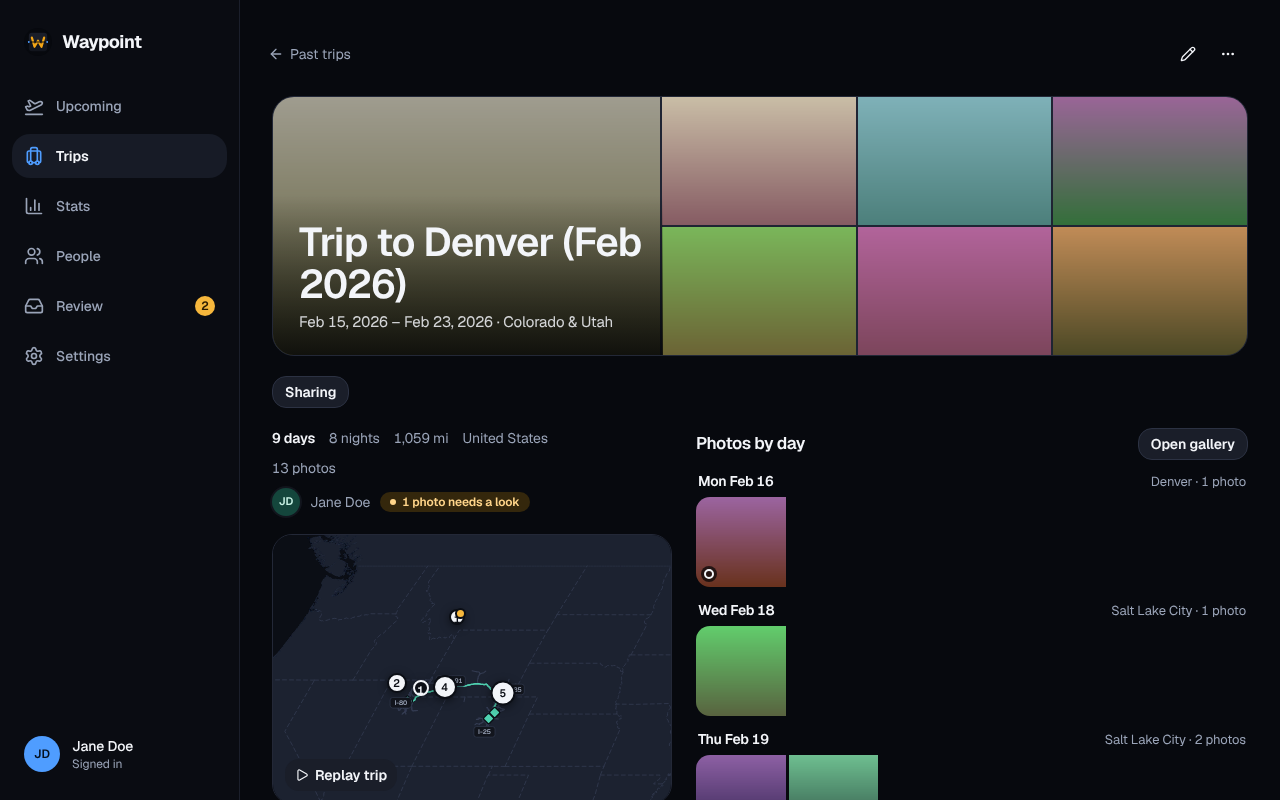
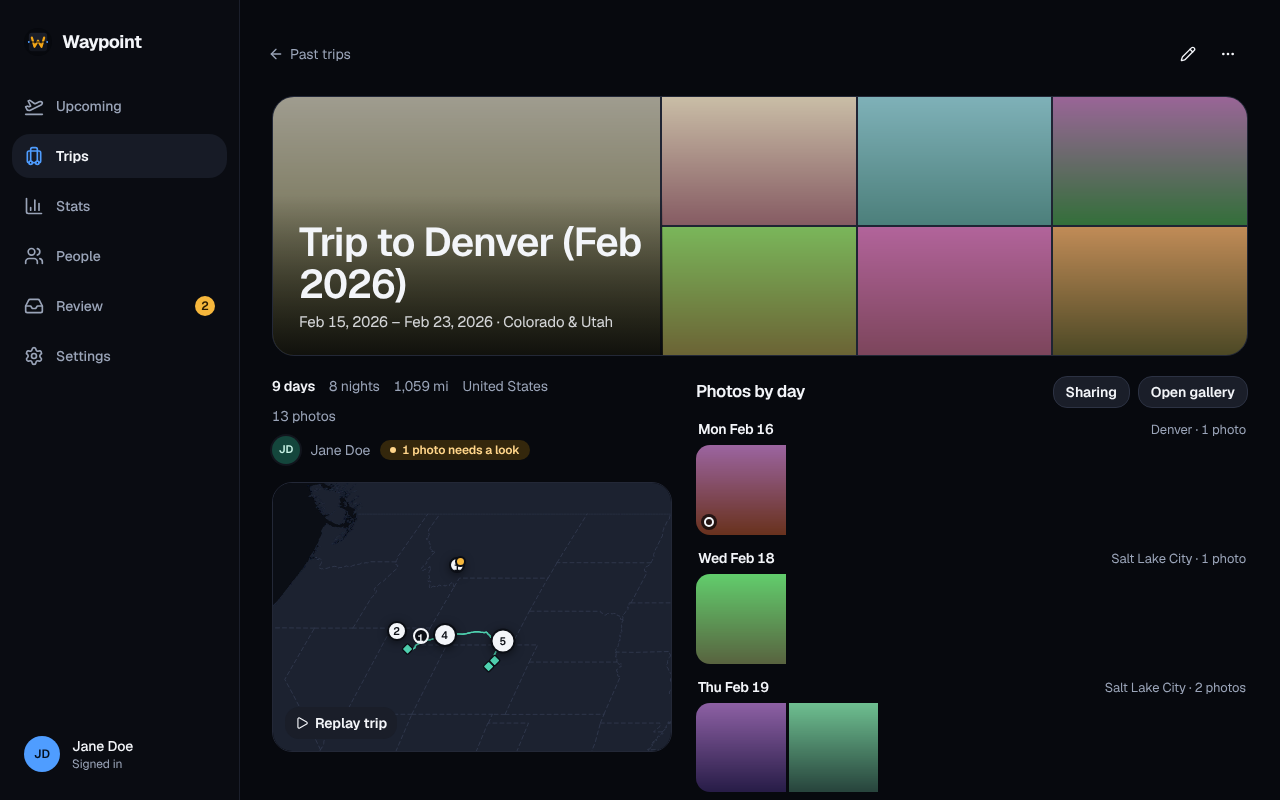
feat: the Sharing button beside Open gallery on the desktop completed trip page (#806)

diff --git a/frontend/src/lib/components/TripPhotos.svelte b/frontend/src/lib/components/TripPhotos.svelte
@@ -1,5 +1,5 @@
 <script lang="ts">
-  import { tick, untrack } from "svelte";
+  import { tick, untrack, type Snippet } from "svelte";
   import { app } from "$lib/app.svelte";
   import type { Person, PhotoSource, Trip, TripPhoto, TripPhotos } from "$lib/api-types";
   import { apiCall } from "$lib/contract";
@@ -19,10 +19,10 @@
   const NONE: ReadonlySet<number> = new Set();
   const GLYPHS = ["M6 22 C 14 18 20 12 26 14 S 38 16 42 8", "M8 14 C 14 8 22 8 26 14 S 36 22 42 16", "M6 10 C 14 14 20 22 28 20 S 38 12 42 20", "M6 20 C 14 20 18 12 26 12 S 38 8 42 6"];
 
-  let { trip, people, now, onloaded, onchanged, timeline = false, wide = false, leftOut = NONE, onlook, onstatus, onsharing, sharingOpen = $bindable(false) }: {
+  let { trip, people, now, onloaded, onchanged, timeline = false, wide = false, leftOut = NONE, onlook, onstatus, onsharing, sharingOpen = $bindable(false), headerEnd = null, belowHeader = null }: {
     trip: Trip; people: Person[]; now: number; onloaded?: (found: TripPhotos | null) => void; onchanged?: () => void;
     timeline?: boolean; wide?: boolean; leftOut?: ReadonlySet<number>; onlook?: (count: number) => void; onstatus?: (state: "loading" | "ready" | "error") => void;
-    onsharing?: (acting: PersonSharing[], settled: boolean) => void; sharingOpen?: boolean;
+    onsharing?: (acting: PersonSharing[], settled: boolean) => void; sharingOpen?: boolean; headerEnd?: Snippet | null; belowHeader?: Snippet | null;
   } = $props();
 
   type Loaded = { state: "loading" } | { state: "ready"; found: TripPhotos } | { state: "error" };
@@ -431,10 +431,13 @@
 
 {#if signedIn && shows}
   <section class={`flex flex-col gap-3 ${timeline ? "" : "mb-6"}`} aria-labelledby="trip-photos-title" data-testid="trip-photos">
-    {#if timeline && wide && total}
-      <div class="flex items-center justify-between gap-3">
-        <h2 id="trip-photos-title" class="text-[17px] leading-snug font-semibold tracking-tight outline-none" tabindex="-1" bind:this={heading}>Photos by day</h2>
-        <Button variant="outline" size="sm" aria-expanded={expanded} aria-controls="trip-photos-gallery" onclick={() => (expanded ? close() : void open(false))}>{expanded ? "Close gallery" : "Open gallery"}</Button>
+    {#if timeline && wide && (total || headerEnd)}
+      <div class={`flex items-center gap-3 ${total ? "justify-between" : "justify-start"}`}>
+        <h2 id="trip-photos-title" class={total ? "text-[17px] leading-snug font-semibold tracking-tight outline-none" : "sr-only"} tabindex="-1" bind:this={heading}>Photos by day</h2>
+        <div class="flex items-center gap-2">
+          {#if headerEnd}{@render headerEnd()}{/if}
+          {#if total}<Button variant="outline" size="sm" aria-expanded={expanded} aria-controls="trip-photos-gallery" onclick={() => (expanded ? close() : void open(false))}>{expanded ? "Close gallery" : "Open gallery"}</Button>{/if}
+        </div>
       </div>
     {:else if timeline}
       <h2 id="trip-photos-title" class="sr-only" tabindex="-1" bind:this={heading}>Photos by day</h2>
@@ -454,6 +457,7 @@
       {/if}
     </div>
     {/if}
+    {#if timeline && wide && belowHeader}{@render belowHeader()}{/if}
     {#if selecting}
       <div class="sticky top-[calc(env(safe-area-inset-top)+4rem)] z-[2] flex flex-wrap items-center justify-between gap-x-3 gap-y-2 bg-background py-2 lg:top-0" data-testid="photo-selection">
         <p class="text-heading" role="status">{selected.size} selected</p>

diff --git a/frontend/src/lib/components/PastTrip.svelte.test.ts b/frontend/src/lib/components/PastTrip.svelte.test.ts
@@ -423,8 +423,7 @@ describe("PastTrip Sharing", () => {
   const sharingButton = () => screen.findByRole("button", { name: "Sharing" });
   const before = (a: Element, b: Element) => !!(a.compareDocumentPosition(b) & Node.DOCUMENT_POSITION_FOLLOWING);
 
-  it("sits alone in the row under a photo hero when View photos isn't drawn, with the card only in the panel", async () => {
-    viewport.phone = false;
+  it("sits alone in the row under a photo hero on a phone when View photos isn't drawn, with the card only in the panel", async () => {
     photos = many(6);
     best = [1, 2, 3];
     sharingReply = async () => sharing();
@@ -437,8 +436,52 @@ describe("PastTrip Sharing", () => {
     await userEvent.click(button);
     const panel = await screen.findByRole("dialog", { name: "Photo sharing for this trip" });
     expect(within(panel).getByRole("region", { name: "Your photos on this trip" })).toBeTruthy();
-    expect(panel.className).toContain("left-[-6px]");
     expect(screen.queryByRole("button", { name: "Select your photos to remove" })).toBeNull();
+  });
+
+  it("sits beside Open gallery in the Photos by day header on desktop, with the popover opening leftward to stay on screen", async () => {
+    viewport.phone = false;
+    photos = many(6);
+    best = [1, 2, 3];
+    sharingReply = async () => sharing();
+    show();
+    const button = await sharingButton();
+    const open = screen.getByRole("button", { name: "Open gallery" });
+    const heading = screen.getByRole("heading", { level: 2, name: "Photos by day" });
+    expect(heading.parentElement?.contains(button)).toBe(true);
+    expect(before(button, open)).toBe(true);
+    expect(before(screen.getByTestId("trip-hero"), button)).toBe(true);
+    expect(screen.queryByRole("button", { name: "View photos" })).toBeNull();
+    await userEvent.click(button);
+    const panel = await screen.findByRole("dialog", { name: "Photo sharing for this trip" });
+    expect(panel.className).toContain("right-[-6px]");
+  });
+
+  it("puts the reminder directly under the Photos by day header on desktop", async () => {
+    viewport.phone = false;
+    photos = many(6);
+    best = [1, 2, 3];
+    sharingReply = async () => sharing({ state: "declined", scope: null });
+    show();
+    const reminder = await screen.findByTestId("photo-reminder");
+    const heading = screen.getByRole("heading", { level: 2, name: "Photos by day" });
+    expect(heading.parentElement?.nextElementSibling).toBe(reminder);
+    expect(before(reminder, days()[0])).toBe(true);
+    expect(screen.queryByRole("button", { name: "Sharing" })).toBeNull();
+  });
+
+  it("holds a blank slot in the header on desktop while the sharing state loads", async () => {
+    viewport.phone = false;
+    photos = many(6);
+    best = [1, 2, 3];
+    let release: (value: PhotoSharing) => void = () => {};
+    sharingReply = () => new Promise((resolve) => { release = resolve; });
+    show();
+    const slot = await screen.findByTestId("sharing-slot");
+    expect(screen.getByRole("heading", { level: 2, name: "Photos by day" }).parentElement?.contains(slot)).toBe(true);
+    release(sharing());
+    await sharingButton();
+    expect(screen.queryByTestId("sharing-slot")).toBeNull();
   });
 
   it("sits beside View photos when the hero takes every photo", async () => {

diff --git a/frontend/src/lib/components/PastTrip.svelte b/frontend/src/lib/components/PastTrip.svelte
@@ -195,23 +195,31 @@
 </div>
 
 {#snippet controls()}
-  {#if controlRow}
+  {#if !wide && controlRow}
     <div class="flex flex-wrap items-center gap-2">
       {#if viewDrawn}<Button variant="outline" size="sm" onclick={() => gallery?.viewFirst()}>View photos</Button>{/if}
-      {#if hasControl}
-        <TripPhotoSharingMenu {acting} tripName={trip.name} align="start" bind:open={sharingOpen} fallback={() => gallery?.headingElement()} />
-      {:else if holdSlot}
-        <span class="inline-block h-8 w-[84px] phone:h-11" aria-hidden="true" data-testid="sharing-slot"></span>
-      {/if}
+      {@render sharingButton()}
     </div>
   {/if}
+  {#if !wide}{@render reminders()}{/if}
+{/snippet}
+
+{#snippet sharingButton()}
+  {#if hasControl}
+    <TripPhotoSharingMenu {acting} tripName={trip.name} align={wide ? "end" : "start"} bind:open={sharingOpen} fallback={() => gallery?.headingElement()} />
+  {:else if holdSlot}
+    <span class="inline-block h-8 w-[84px] phone:h-11" aria-hidden="true" data-testid="sharing-slot"></span>
+  {/if}
+{/snippet}
+
+{#snippet reminders()}
   {#each acting as a (a.personId)}
     <TripPhotoSharing sharing={a} tripName={trip.name} part="reminder" />
   {/each}
 {/snippet}
 
 {#snippet photos()}
-  <TripPhotos bind:this={gallery} bind:sharingOpen onsharing={(next, done) => { acting = next; settled = done; }} onstatus={(next) => (status = next)} timeline {wide} {leftOut} onlook={(n) => (looks = n)} onloaded={(next) => (found = next)} onchanged={() => photoChanges++} {trip} {people} {now} />
+  <TripPhotos bind:this={gallery} bind:sharingOpen onsharing={(next, done) => { acting = next; settled = done; }} headerEnd={wide && (hasControl || holdSlot) ? sharingButton : null} belowHeader={wide ? reminders : null} onstatus={(next) => (status = next)} timeline {wide} {leftOut} onlook={(n) => (looks = n)} onloaded={(next) => (found = next)} onchanged={() => photoChanges++} {trip} {people} {now} />
 {/snippet}
 
 {#snippet total()}

diff --git a/docs/PHOTOS.md b/docs/PHOTOS.md
@@ -181,7 +181,7 @@ A person with no sign-in is never prompted; their steward shares for them in Set
 
 **The standing setting.** While `share_all` is on, a trip the person joins (`trippeople` gains them) gets a grant at `default_scope` in the same transaction, and a sync starts, without asking; with it off, they start with no grant and are asked when they first open the trip (decision 14). Turning it on is a widening, so it asks once ("Share your photos on all your trips? This includes N trips you haven't shared or stopped sharing.", **Cancel** / **Share on all**), then grants every current trip of the person that is eligible (they are on it, the setter can see it) and has no active grant at `default_scope`, clearing revoked rows too, so an active Only me or Trip grant keeps its scope, so while it is on every such trip with their photos is shared, as the Settings copy says. A trip whose sharing they stop while the setting is on stays stopped: the setting writes only trips with no row and trips joined later. Turning it off grants and revokes nothing. Changing the default scope changes no trip already shared. It only ever grants trips that whoever set it (`photo_sharing_prefs.set_by`) can see (Terms), so a steward's setting never shares a child's photos on a trip the steward can't see. Because the setter can come to see a trip in other ways than the person joining it (the steward books it, or a confirmation for it arrives in their mailbox), `photogrants.reconcile(conn, trip)` runs in the transaction of every change that can change who sees a trip or who is on it (a booking added, moved or removed, a booker changed, a confirmation attached, a merge), and works both ways, in that transaction: it grants each person on the trip whose setting is on and whose setter can now see it, when they have no row there or only a revoked row older than `share_all_since` (a decline from before the setting, which turning it on would have re-shared); and it deletes each active grant on the trip whose `granted_by` can no longer see it (a steward who lost sight of the trip can't reach its controls, so the sharing they made there ends, its rows re-placed). `sync_all` runs it for every trip too, as a backstop.
 
-**Your photos on this trip** (design j, moved behind a button by [#744](https://github.com/AnthonyPluth/Waypoint/issues/744), `docs/design/photos/trip-photo-sharing.html`) is a section of the **Sharing** panel, shown only to someone whose library is shared on the trip: the count, a scope chip, the radio group **Who can see your photos on this trip**, **Stop sharing on this trip**, and the disclosure **Removed from this trip (N)**. The **Sharing** button sits first in the Photos header (`Sharing`, `Select`, `See all`) and shows only while one of the people the viewer acts for has such a section: the first-visit prompt and the reminder row stay inline with no button, and a traveller who acts for no one sees no sharing control. The panel, titled **Photo sharing for this trip**, is a non-modal popover under the button on a wide screen (Escape, a click outside it or Tab leaving it closes it) and the app's bottom sheet on a phone; the viewer's own section comes first and the sections of the people they manage start closed (the first section is always open). The three confirmations open on top of it. A past trip's page (`PastTrip.svelte`, [#789](https://github.com/AnthonyPluth/Waypoint/issues/789), `docs/design/photos/past-trip-sharing.html`) has the same button, left-aligned in the row under the hero (beside `View photos` when that is drawn, alone otherwise, and alone on its own row under the map when the hero is the map), with the popover opening left-aligned under it; the row's space is held while the sharing state loads and collapses for someone with no control, the reminder after Not now sits directly under the row, and the first-visit prompt stays above the days. Nothing about who sees what changes.
+**Your photos on this trip** (design j, moved behind a button by [#744](https://github.com/AnthonyPluth/Waypoint/issues/744), `docs/design/photos/trip-photo-sharing.html`) is a section of the **Sharing** panel, shown only to someone whose library is shared on the trip: the count, a scope chip, the radio group **Who can see your photos on this trip**, **Stop sharing on this trip**, and the disclosure **Removed from this trip (N)**. The **Sharing** button sits first in the Photos header (`Sharing`, `Select`, `See all`) and shows only while one of the people the viewer acts for has such a section: the first-visit prompt and the reminder row stay inline with no button, and a traveller who acts for no one sees no sharing control. The panel, titled **Photo sharing for this trip**, is a non-modal popover under the button on a wide screen (Escape, a click outside it or Tab leaving it closes it) and the app's bottom sheet on a phone; the viewer's own section comes first and the sections of the people they manage start closed (the first section is always open). The three confirmations open on top of it. A past trip's page (`PastTrip.svelte`, [#789](https://github.com/AnthonyPluth/Waypoint/issues/789), `docs/design/photos/past-trip-sharing.html`) has the same button, left-aligned in the row under the hero on a phone (beside `View photos` when that is drawn, alone otherwise, and alone on its own row under the map when the hero is the map) and, on the two-column desktop page, beside `Open gallery` in the `Photos by day` header (owner decision of 2026-11-17 after [#794](https://github.com/AnthonyPluth/Waypoint/pull/794)), with the popover opening left-aligned under it on a phone-width row and right-aligned (opening leftward, so it stays on screen) from the desktop header; the row's space is held while the sharing state loads and collapses for someone with no control, the reminder after Not now sits directly under the row, and the first-visit prompt stays above the days. Nothing about who sees what changes.
 
 **Scope.** Switching between Only me and Everyone updates `scope`, `changed` and `granted_by`; no photo row moves or is deleted, because every read applies the predicate below at request time. Narrowing to **Only me** saves at once, without asking, and is a removal that takes effect on the next request; a toast "Now only you see your photos on this trip." offers **Undo**, which is a widening: it sends the trip's window and the `changed` value of the grant it narrowed (and is refused with 409 unless the active grant is still that exact Only me grant, so a stale toast can't undo a newer state). The Undo toast of a removal likewise sends the exclusion's `created` value with its `DELETE …/photo-exclusions/{photo_id}` and is refused with 409 unless the current exclusion is still that exact one, so it can't undo a newer removal; **Put back** in the removed list targets the current exclusion), and if the window has changed since (the trip grew or shrank) the server refuses it (409) and the toast gives way to "The trip changed. Review who sees your photos under Your photos on this trip.", so an Undo can never expose photos the person did not confirm. Widening to everyone asks once ("Show your 171 photos to everyone on this trip?", **Cancel** / **Show them**).
 

diff --git a/docs/src/content/docs/start/photos.md b/docs/src/content/docs/start/photos.md
@@ -60,7 +60,7 @@ The first time you open a trip whose dates your library has photos from, the **P
 - **Share on all my trips** shares this trip and every trip you are on now, and turns on the standing setting (below) with the choice made here, so trips you join later are shared the same way without asking. With **Everyone on this trip** chosen it first asks “Show your 319 photos to everyone on 6 trips?”, with the same count-bound confirmation as Settings. If the standing setting is already on, the button only shares this trip, at the choice made here, exactly as **Share on this trip** does, and leaves the setting and its default for later trips as they are (change those in Settings). If Waypoint finds this trip still not shared after turning the setting on, it says so and keeps the card open.
 - **Not now** folds the card into one line, “Your 77 photos from this trip aren’t on it. Only you see this.”, with **Share…**, which opens the card again with a fresh count.
 
-Once you have shared, the Photos header has a **Sharing** button, before **Select** and **See all**. It opens **Photo sharing for this trip**: a panel under the button on a wide screen (it stays out of the way of the photos, and closes on Escape, a click outside it or Tab leaving it) and the bottom sheet on a phone. In it, **Your photos on this trip** shows how many photos of yours are on it, who sees them (**Only me** or **Everyone on this trip**), a way to change it and **Stop sharing on this trip**. Choosing **Only me** saves at once, with **Undo** in the message that confirms it; choosing **Everyone on this trip** asks “Show your 169 photos to everyone on this trip?” first, and **Stop sharing on this trip** asks once and says plainly that your photos leave the trip right away, for everyone. A person without a sign-in whom you manage has the same section, named for them (“June’s photos on this trip”), on the trips they are on: yours comes first, and theirs start closed, opened with the arrow beside their name. The button shows only while one of these sections exists, so before you have shared (the prompt or the one-line reminder above) and on a trip you have no photos on there is no **Sharing** button, and nobody else on the trip sees one. On a trip that has ended there is no Photos header: the **Sharing** button sits in the row under the top of the page (beside **View photos** when that shows), and the panel opens from there in the same way.
+Once you have shared, the Photos header has a **Sharing** button, before **Select** and **See all**. It opens **Photo sharing for this trip**: a panel under the button on a wide screen (it stays out of the way of the photos, and closes on Escape, a click outside it or Tab leaving it) and the bottom sheet on a phone. In it, **Your photos on this trip** shows how many photos of yours are on it, who sees them (**Only me** or **Everyone on this trip**), a way to change it and **Stop sharing on this trip**. Choosing **Only me** saves at once, with **Undo** in the message that confirms it; choosing **Everyone on this trip** asks “Show your 169 photos to everyone on this trip?” first, and **Stop sharing on this trip** asks once and says plainly that your photos leave the trip right away, for everyone. A person without a sign-in whom you manage has the same section, named for them (“June’s photos on this trip”), on the trips they are on: yours comes first, and theirs start closed, opened with the arrow beside their name. The button shows only while one of these sections exists, so before you have shared (the prompt or the one-line reminder above) and on a trip you have no photos on there is no **Sharing** button, and nobody else on the trip sees one. On a trip that has ended there is no Photos header: on a phone the **Sharing** button sits in the row under the top of the page (beside **View photos** when that shows), and on a wide screen it sits beside **Open gallery** in the **Photos by day** header; the panel opens from there in the same way.
 
 Each change reloads the trip’s photos, map pins and summary, and so does editing the trip’s dates or people, or a booking’s times, zones, status (a cancellation too), kind, places (an address too) or itinerary, so a card that must ask again does. If the page can’t reload something after a change that went through, it says so, with **Try again**, and holds the controls that depend on it until it can show the current state.
 

diff --git a/docs/design/photos/README.md b/docs/design/photos/README.md
@@ -61,6 +61,10 @@ The page draws, at phone and desktop width: today's page with the card this repl
 
 The frames draw `View photos` beside `Sharing` with 248 photos, but the page draws `View photos` only when the hero takes every photo the viewer can see (exactly three, so the days are empty; the #748 test "has no View photos button while the days show photos" holds that). The owner decided on 2026-11-17 (build issue [#789](https://github.com/AnthonyPluth/Waypoint/issues/789)): `Sharing` sits alone, left-aligned, in the row where `View photos` would be whenever `View photos` isn't drawn; `View photos` still appears beside it in the three-photo case; `View photos`'s behaviour does not change. Frames A1, A2, A3, S1, S3, S4 and S6 draw two buttons and so differ from the built page in the common case (a photo hero with days below). The reserved slot and its collapse work as decided below: with no `View photos` and no control, the row collapses once after the state loads, as under the map hero.
 
+### Desktop placement (owner decision, 2026-11-17, after #794)
+
+The frames are phone-first and draw the button in the row under the hero. #794 then gave the completed trip page two columns on desktop. The owner decided on 2026-11-17 that on desktop `Sharing` sits beside `Open gallery` in the right column's `Photos by day` header, not between the hero and the columns. The phone placement is unchanged. The Not now reminder sits directly under that header row on desktop (the same relation as on phone: directly under the button row), and the first-visit prompt stays above the days. The slot is still held blank while the sharing state loads and collapses for a person with no control, and the popover opens left-aligned under the button on the phone-width row. In the desktop header the button sits at the column's right edge, where a left-aligned 392 px popover would run off the screen, so it opens right-aligned, leftward, with its caret over the button.
+
 ### Decisions (2026-11-17)
 
 - Placement A: a `Sharing` outline button in the row under the hero, beside `View photos` when that is drawn (see the amendment below). B (a visible `Photos by day` header with `Sharing` at its right) and C (`Sharing` after `Replay` in the facts line) are not chosen; they stay on the page for the record.
